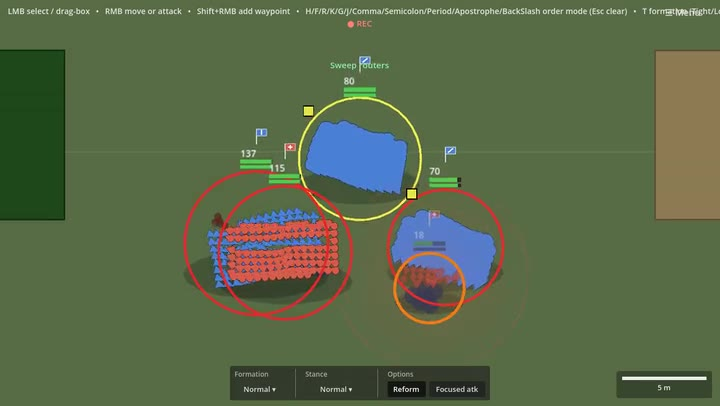
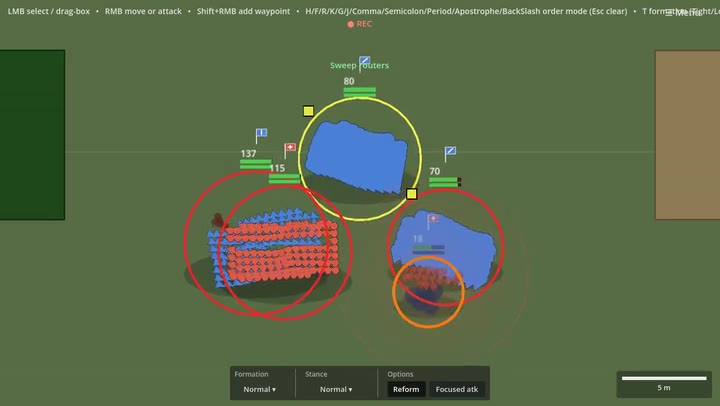
Deploying to gh-pages from @ Lacaedemon/sparta@52d921f3a9a7951c978519df0cd3bc231d4d8259 🚀

diff --git a/architecture.html b/architecture.html
@@ -473,7 +473,7 @@ ul.task-list li input[type="checkbox"] {
     <div>
     <div class="quarto-title-meta-heading">Published</div>
     <div class="quarto-title-meta-contents">
-      <p class="date">Last updated: 2026-07-10</p>
+      <p class="date">Last updated: 2026-07-11</p>
     </div>
   </div>
   

diff --git a/assets.html b/assets.html
@@ -468,7 +468,7 @@ ul.task-list li input[type="checkbox"] {
     <div>
     <div class="quarto-title-meta-heading">Published</div>
     <div class="quarto-title-meta-contents">
-      <p class="date">Last updated: 2026-07-10</p>
+      <p class="date">Last updated: 2026-07-11</p>
     </div>
   </div>
   

diff --git a/combat.html b/combat.html
@@ -497,7 +497,7 @@ window.Quarto = {
     <div>
     <div class="quarto-title-meta-heading">Published</div>
     <div class="quarto-title-meta-contents">
-      <p class="date">Last updated: 2026-07-10</p>
+      <p class="date">Last updated: 2026-07-11</p>
     </div>
   </div>
   

diff --git a/getting-started.html b/getting-started.html
@@ -508,7 +508,7 @@ pre > code.sourceCode > span > a:first-child::before { text-decoration: underlin
     <div>
     <div class="quarto-title-meta-heading">Published</div>
     <div class="quarto-title-meta-contents">
-      <p class="date">Last updated: 2026-07-10</p>
+      <p class="date">Last updated: 2026-07-11</p>
     </div>
   </div>
   

diff --git a/how-to-play.html b/how-to-play.html
@@ -468,7 +468,7 @@ ul.task-list li input[type="checkbox"] {
     <div>
     <div class="quarto-title-meta-heading">Published</div>
     <div class="quarto-title-meta-contents">
-      <p class="date">Last updated: 2026-07-10</p>
+      <p class="date">Last updated: 2026-07-11</p>
     </div>
   </div>
   

diff --git a/index.html b/index.html
@@ -451,7 +451,7 @@ ul.task-list li input[type="checkbox"] {
     <div>
     <div class="quarto-title-meta-heading">Published</div>
     <div class="quarto-title-meta-contents">
-      <p class="date">Last updated: 2026-07-10</p>
+      <p class="date">Last updated: 2026-07-11</p>
     </div>
   </div>
   

diff --git a/replays.html b/replays.html
@@ -505,7 +505,7 @@ pre > code.sourceCode > span > a:first-child::before { text-decoration: underlin
     <div>
     <div class="quarto-title-meta-heading">Published</div>
     <div class="quarto-title-meta-contents">
-      <p class="date">Last updated: 2026-07-10</p>
+      <p class="date">Last updated: 2026-07-11</p>
     </div>
   </div>
   

diff --git a/roadmap.html b/roadmap.html
@@ -466,7 +466,7 @@ ul.task-list li input[type="checkbox"] {
     <div>
     <div class="quarto-title-meta-heading">Published</div>
     <div class="quarto-title-meta-contents">
-      <p class="date">Last updated: 2026-07-10</p>
+      <p class="date">Last updated: 2026-07-11</p>
     </div>
   </div>
   

diff --git a/tactics.html b/tactics.html
@@ -489,7 +489,7 @@ ul.task-list li input[type="checkbox"] {
     <div>
     <div class="quarto-title-meta-heading">Published</div>
     <div class="quarto-title-meta-contents">
-      <p class="date">Last updated: 2026-07-10</p>
+      <p class="date">Last updated: 2026-07-11</p>
     </div>
   </div>
   